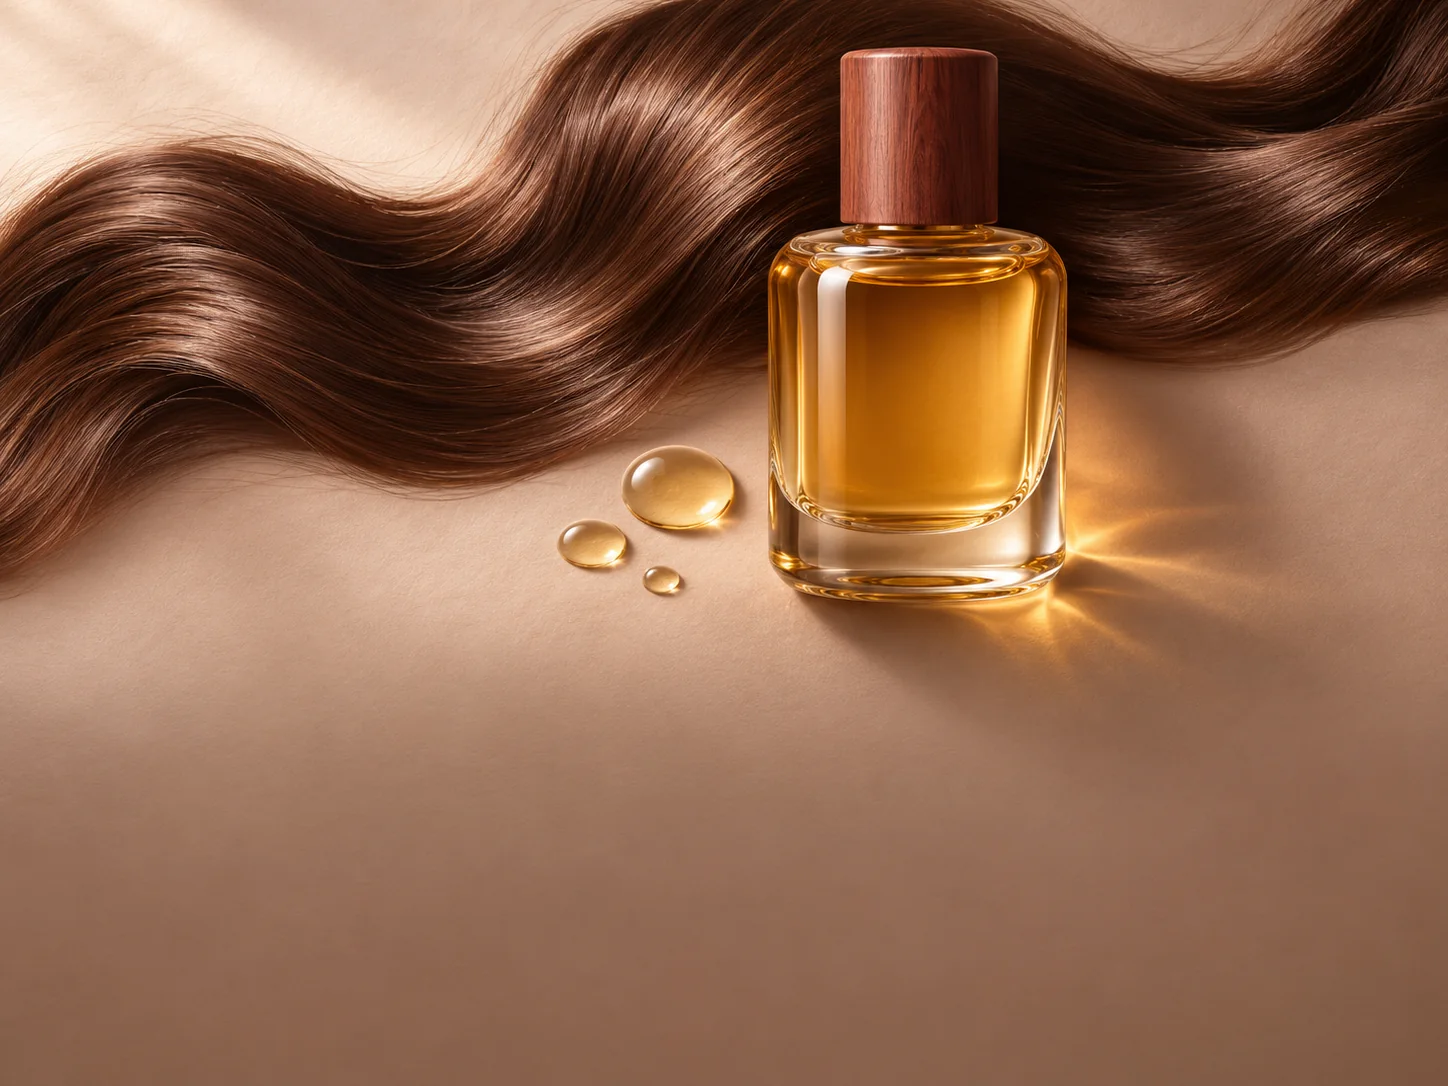
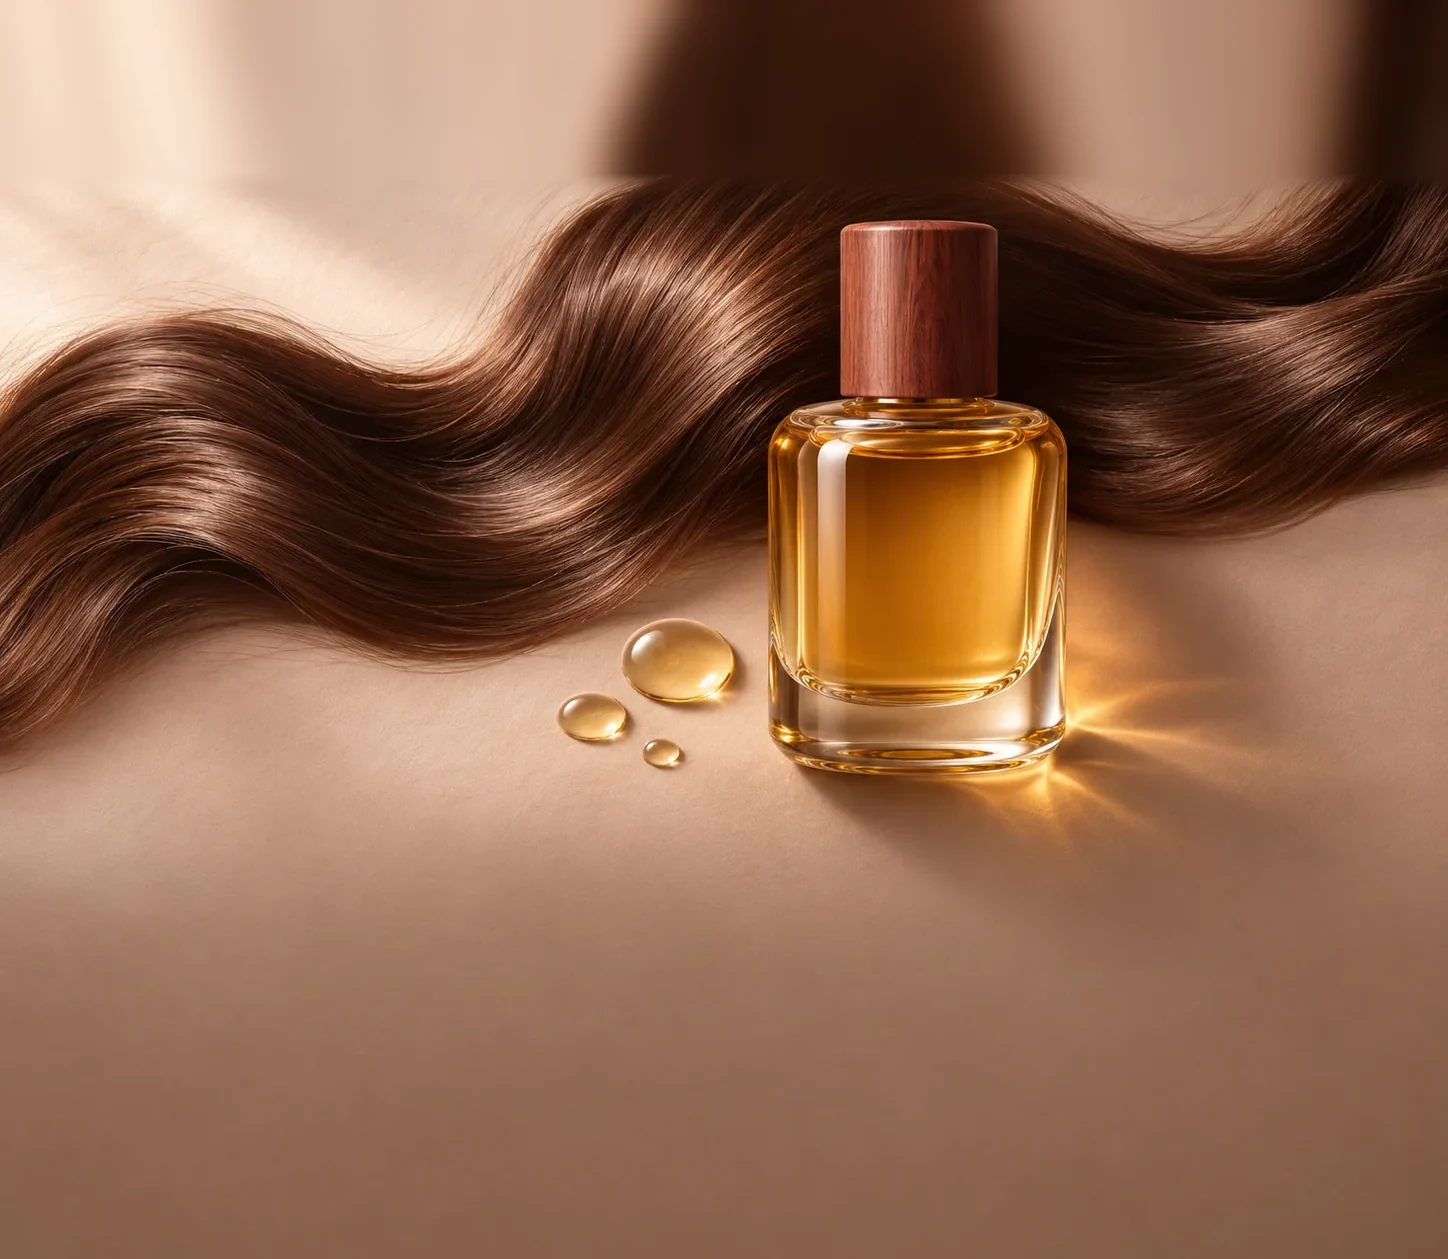
Плитки разделов: картинки опущены ниже — сверху добавлен фон, предметы не обрезаются и стоят ровно

diff --git a/shop/src/components/category-promos.tsx b/shop/src/components/category-promos.tsx
@@ -27,6 +27,12 @@ const COVER: Record<Category, string> = {
   sets: "charlotte-tilbury-hollywood-beauty-wonderland",
 };
 
+// Где на картинке главный предмет: верх кадра не обрезаем, чтобы флаконы и палетки стояли ровно
+const FOCUS: Partial<Record<Category, string>> = {
+  makeup: "object-[center_25%]",
+  skin: "object-[center_35%]",
+};
+
 // Размер плитки в сетке: макияж — главный, уход за лицом — широкий
 const SPAN: Partial<Record<Category, string>> = {
   makeup: "col-span-2 row-span-2",
@@ -61,7 +67,7 @@ export function CategoryPromos({ lang }: { lang: Locale }) {
                   alt=""
                   fill
                   sizes={big ? "(min-width: 768px) 50vw, 100vw" : "(min-width: 768px) 25vw, 50vw"}
-                  className="object-cover transition-transform duration-700 group-hover:scale-[1.05]"
+                  className={`object-cover transition-transform duration-700 group-hover:scale-[1.05] ${FOCUS[c] ?? "object-center"}`}
                 />
               ) : null}
               <span className="absolute inset-0 bg-[linear-gradient(180deg,rgba(42,26,21,0)_25%,rgba(42,26,21,0.55)_60%,rgba(42,26,21,0.9)_100%)]" />
